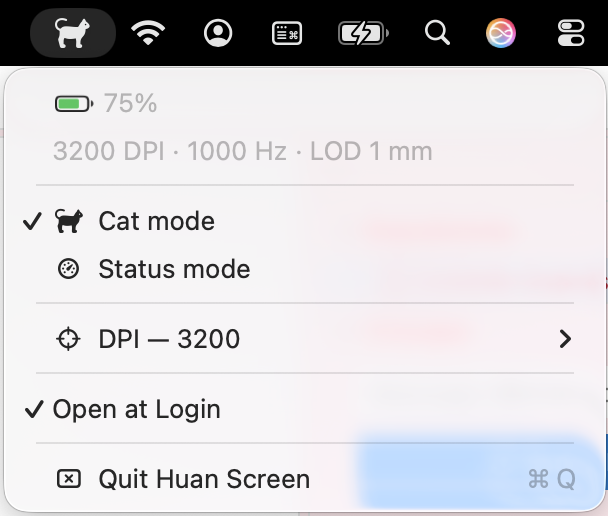
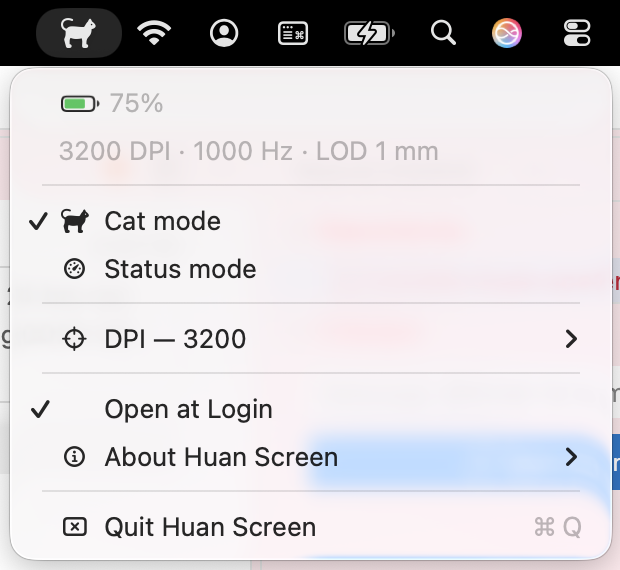
📝 docs: section Features, mises à jour sans Gatekeeper et nouvelle capture du menu

diff --git a/README.md b/README.md
@@ -15,7 +15,14 @@ macOS menu bar app to switch the **WLMOUSE HUAN 8K receiver** screen between cat
   </tr>
 </table>
 
-The menu also shows the mouse battery level, DPI, polling rate and lift-off distance.
+## Features
+
+- Switch the receiver screen between cat and status modes
+- Mouse battery level, DPI, polling rate and lift-off distance at a glance
+- Switch DPI stages from the menu
+- Low battery notifications at 20% and 10%
+- One-click updates from the menu
+- Command line interface for scripts and keyboard shortcuts
 
 ## Requirements
 
@@ -39,6 +46,8 @@ The app is not notarized by Apple, so macOS blocks it on first launch. To allow 
   xattr -dr com.apple.quarantine "/Applications/Huan Screen.app"
   ```
 
+You only do this once: later versions install from the menu (**About Huan Screen → Update to vX.Y.Z**) and macOS does not block them.
+
 ## Build from source
 
 Requires the Xcode Command Line Tools (`xcode-select --install`).
@@ -53,8 +62,8 @@ make install
 
 ### Releasing
 
-1. `make bump V=0.3.0` sets the version in `Resources/Info.plist`, increments the build number, commits it and creates the annotated tag `v0.3.0` (your editor opens for the tag message).
-2. Publish: `git push && git push origin v0.3.0`.
+1. `make bump V=x.y.z` sets the version in `Resources/Info.plist`, increments the build number, commits it and creates the annotated tag `vx.y.z` (your editor opens for the tag message).
+2. Publish: `git push && git push origin vx.y.z`.
 
 GitHub Actions then builds the app, checks the tag matches the version, and publishes the release with the zip, install notes, SHA-256 and changelog.
 
@@ -64,7 +73,7 @@ GitHub Actions then builds the app, checks the tag matches the version, and publ
 
 Click the icon to open the menu:
 
-<img src="docs/menu.png" alt="Huan Screen menu" width="304">
+<img src="docs/menu.png" alt="Huan Screen menu" width="310">
 
 The battery turns red below 20% and shows a bolt while charging. A notification warns you when the battery drops to 20%, then 10%; it is re-armed once the mouse charges or goes back above 25%. The menu bar always shows the cat icon, dimmed when the receiver is not plugged in; hover it to see the current mode.
 
